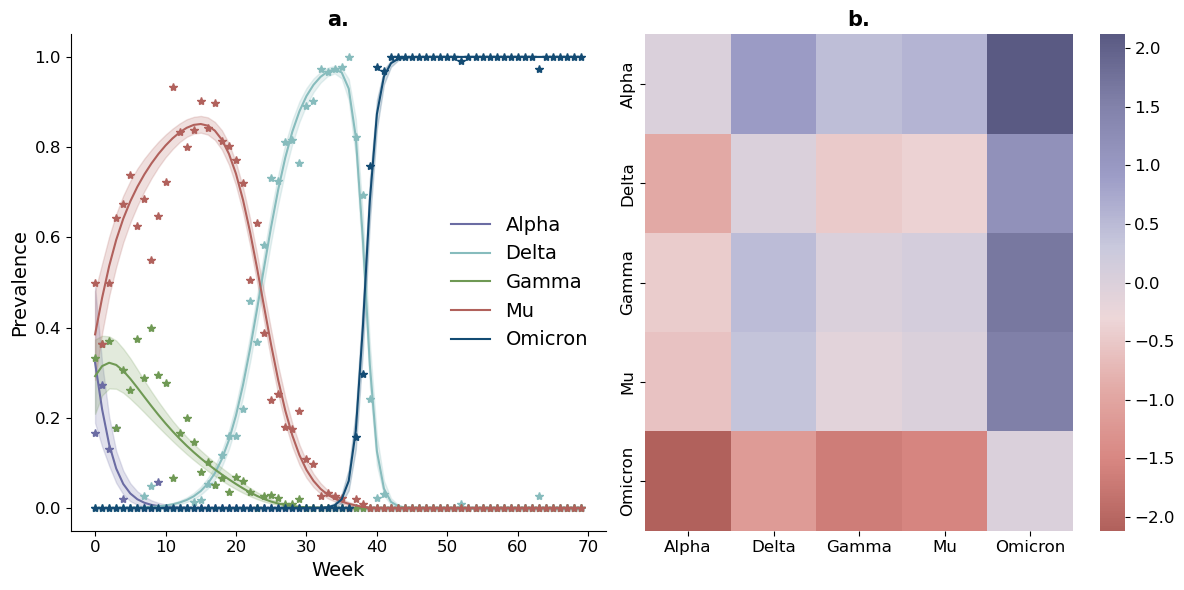
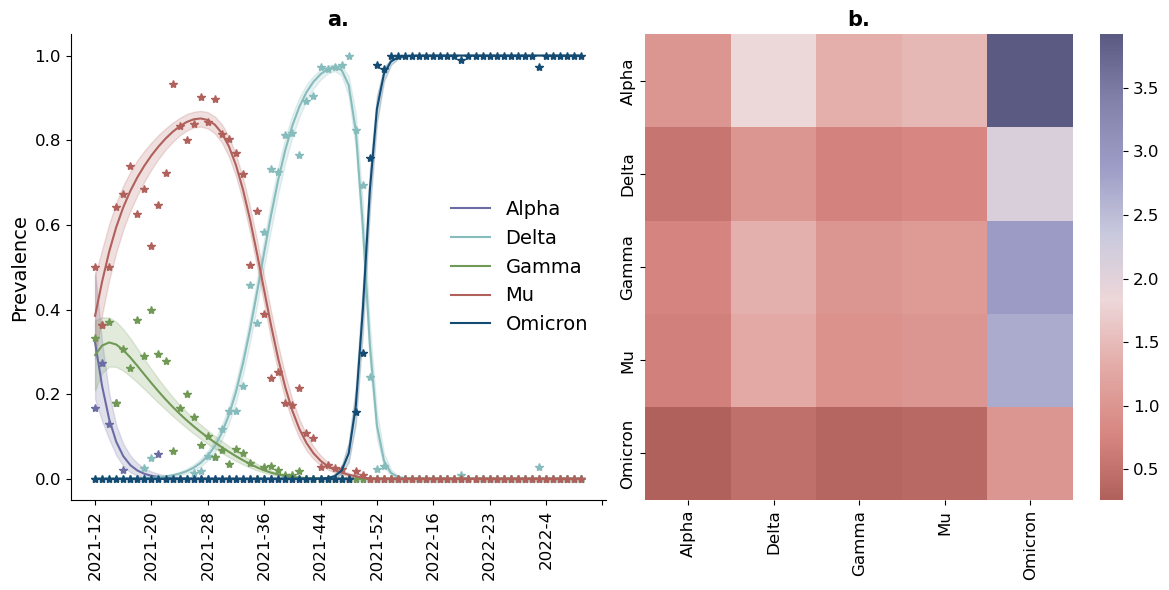
fix: changed week numbers for week dates in figure 2

diff --git a/plots/results_genomics.py b/plots/results_genomics.py
@@ -6,6 +6,7 @@ Created on Fri Oct 21 2022
 """     
 import yaml
 import pandas as pd
+import datetime
 import matplotlib.pyplot as plt
 import seaborn as sns
 from met_brewer import met_brew
@@ -26,6 +27,9 @@ df_variants = pd.read_csv(DATA_PATH + 'variants-ic-bog_'+ DATE_GENOMICS + '.csv'
 df_variants['date'] = pd.to_datetime(df_variants['date'])
 ## Results from multinomial analysis
 df_results = pd.read_csv(OUT_PATH + 'theta.csv')
+df_pivot =  pd.read_csv(DATA_PATH + 'variants_pivot.csv').rename(columns = {'t' : 'week', 'week' : 'week_name'})
+df_results = df_results.merge(df_pivot[['week', 'week_name']], on = 'week')
+df_results['date'] = df_results.week_name.apply(lambda date: datetime.datetime.strptime(date + '-1', "%Y-%W-%w"))
 
 def plot_multinomial(ax):
         stat = "mean"
@@ -39,7 +43,7 @@ def plot_multinomial(ax):
                 color  = colors[n], marker = '*', linestyle = '')
         ax.fill_between(df_results[mask].week, df_results[mask1].theta, df_results[mask2].theta,
                         color  = colors[n], alpha = 0.2)
-        
+                
         n += 1
         variant = 'Delta'
         mask = (df_results.stat == stat) & (df_results.variant == variant)
@@ -83,6 +87,19 @@ def plot_multinomial(ax):
                 color  = colors[n], marker = '*', linestyle = '')
         ax.fill_between(df_results[mask].week, df_results[mask1].theta, df_results[mask2].theta,
                         color  = colors[n], alpha = 0.2)
+        ax.tick_params(axis='x', rotation=90)
+        n_ticks = 11
+        weeks = (df_results.week_name).unique()
+        print(min(weeks))
+        print(len(weeks))
+        ax.xaxis.set_major_locator(plt.MaxNLocator(n_ticks))        
+        no_ticks = ax.get_xticks().astype(int)
+        if min(no_ticks) <0:
+                no_ticks_f = [0]
+        else:
+                no_ticks_f = []
+        no_ticks_f = no_ticks_f + [n for n in no_ticks if ((n >= 0) & (n < len(weeks)))]
+        ax.set_xticklabels(weeks[no_ticks_f])
 
 # Prevalence histogram
 def plot_prevalence(ax):
@@ -108,3 +125,4 @@ def plot_heatmap(ax, n):
         color_list = met_brew('Cassatt1', n = n, brew_type='continuous')
         sns.heatmap(data = df_mean, annot = False, cmap = color_list, ax = ax)
         ax.set_ylabel('')
+        ax.tick_params(axis='x', rotation=90)

diff --git a/plots/individual_plots.py b/plots/individual_plots.py
@@ -34,7 +34,6 @@ import results_genomics as results_genomics
 # Multinomial
 fig, ax = plt.subplots()
 results_genomics.plot_multinomial(ax)
-ax.set_xlabel('week')
 ax.set_ylabel('Prevalence')
 fig.legend(loc = 'center right')
 fig.savefig(FIG_PATH + 'variants_multinomial.png')

diff --git a/plots/figure_2.py b/plots/figure_2.py
@@ -24,7 +24,6 @@ import results_genomics as results_genomics
 fig, ax = plt.subplots(1,2, figsize = (12, 6))
 axi = ax[0]
 results_genomics.plot_multinomial(axi)
-axi.set_xlabel('Week')
 axi.set_ylabel('Prevalence')
 axi.legend()
 axi.set_title('a.')
